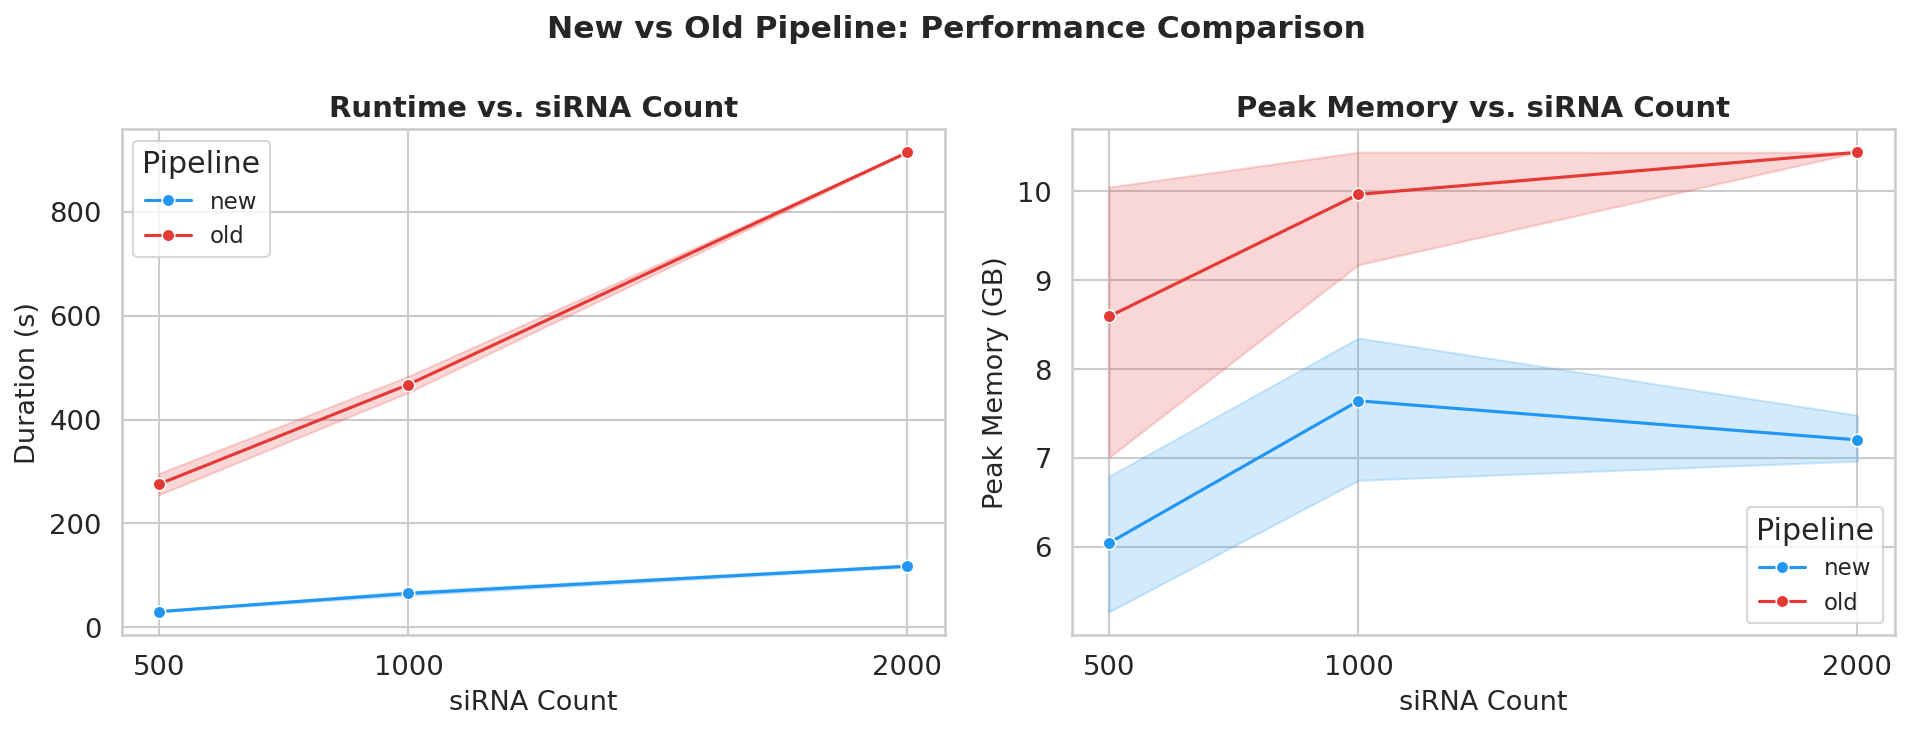
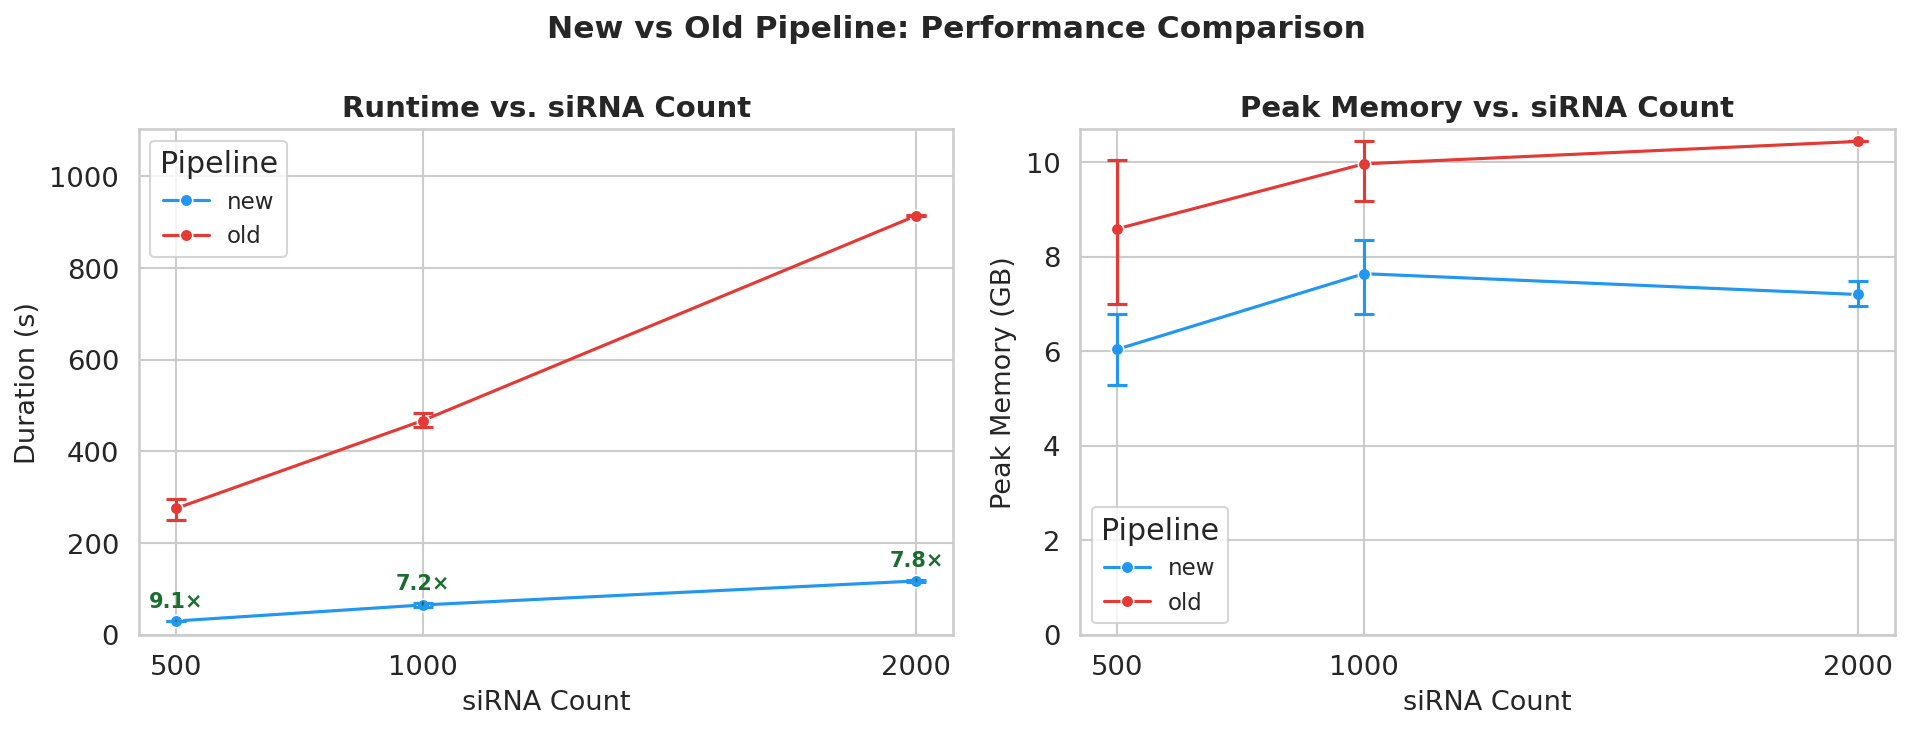
fix plotting script

diff --git a/plot_metrics.py b/plot_metrics.py
@@ -4,6 +4,7 @@ import matplotlib
 matplotlib.use("Agg")
 import matplotlib.pyplot as plt
 import seaborn as sns
+import numpy as np
 
 sns.set_theme(style="whitegrid", font_scale=1.2)
 PALETTE = {"new": "#2196F3", "old": "#E53935"}
@@ -11,8 +12,33 @@ PALETTE = {"new": "#2196F3", "old": "#E53935"}
 df = pd.read_csv("benchmark_results.csv")
 df["peak_memory_gb"] = df["peak_memory_kb"] / 1_048_576
 
+# t(0.975, df) critical values; fallback to 1.96 for large n
+T_CRITS = {1: 12.706, 2: 4.303, 3: 3.182, 4: 2.776, 5: 2.571,
+           6: 2.447, 7: 2.365, 8: 2.306, 9: 2.262, 10: 2.228}
+
+# Per-group stats for annotations and CI upper bounds
+def ci95_upper(x):
+    n = len(x)
+    t = T_CRITS.get(n - 1, 1.96)
+    return x.mean() + t * x.std(ddof=1) / np.sqrt(n)
+
+agg = df.groupby(["pipeline_version", "siRNA_count"]).agg(
+    mean_dur=("duration_seconds", "mean"),
+    ci_upper_dur=("duration_seconds", ci95_upper),
+    mean_mem=("peak_memory_gb", "mean"),
+).reset_index()
+
+means = agg.pivot(index="siRNA_count", columns="pipeline_version",
+                  values=["mean_dur", "ci_upper_dur", "mean_mem"])
+speedup = (means["mean_dur"]["old"] / means["mean_dur"]["new"]).to_dict()
+ci_upper_new = means["ci_upper_dur"]["new"].to_dict()
+mean_new_dur = means["mean_dur"]["new"].to_dict()
+mean_new_mem = means["mean_mem"]["new"].to_dict()
+mean_old_mem = means["mean_mem"]["old"].to_dict()
+
 fig, (ax1, ax2) = plt.subplots(1, 2, figsize=(13, 5))
 
+# ── Runtime plot ──────────────────────────────────────────────────────────────
 sns.lineplot(
     data=df,
     x="siRNA_count",
@@ -20,7 +46,9 @@ sns.lineplot(
     hue="pipeline_version",
     marker="o",
     palette=PALETTE,
-    errorbar="ci",
+    errorbar=("ci", 95),
+    err_style="bars",
+    err_kws={"capsize": 5, "capthick": 1.5, "elinewidth": 1.5},
     ax=ax1,
 )
 ax1.set_xlabel("siRNA Count", fontsize=13)
@@ -29,6 +57,24 @@ ax1.set_title("Runtime vs. siRNA Count", fontsize=14, fontweight="bold")
 ax1.set_xticks(sorted(df["siRNA_count"].unique()))
 ax1.legend(title="Pipeline", fontsize=11)
 
+# Speedup annotations above 'new' CI upper bound
+y_pad = (ax1.get_ylim()[1] - ax1.get_ylim()[0]) * 0.02
+for n in sorted(speedup):
+    ax1.annotate(
+        f"{speedup[n]:.1f}×",
+        xy=(n, mean_new_dur[n]),
+        xytext=(n, ci_upper_new[n] + y_pad),
+        ha="center", va="bottom",
+        fontsize=10, fontweight="bold", color="#1a6e2e",
+        arrowprops=dict(arrowstyle="-", color="#1a6e2e", lw=0.8),
+    )
+
+# Expand ylim so annotations don't clip
+ax1.set_ylim(bottom=0)
+_, cur_top = ax1.get_ylim()
+ax1.set_ylim(top=cur_top * 1.15)
+
+# ── Memory plot ───────────────────────────────────────────────────────────────
 sns.lineplot(
     data=df,
     x="siRNA_count",
@@ -36,7 +82,9 @@ sns.lineplot(
     hue="pipeline_version",
     marker="o",
     palette=PALETTE,
-    errorbar="ci",
+    errorbar=("ci", 95),
+    err_style="bars",
+    err_kws={"capsize": 5, "capthick": 1.5, "elinewidth": 1.5},
     ax=ax2,
 )
 ax2.set_xlabel("siRNA Count", fontsize=13)
@@ -44,6 +92,7 @@ ax2.set_ylabel("Peak Memory (GB)", fontsize=13)
 ax2.set_title("Peak Memory vs. siRNA Count", fontsize=14, fontweight="bold")
 ax2.set_xticks(sorted(df["siRNA_count"].unique()))
 ax2.legend(title="Pipeline", fontsize=11)
+ax2.set_ylim(bottom=0)
 
 fig.suptitle("New vs Old Pipeline: Performance Comparison", fontsize=15,
              fontweight="bold")
